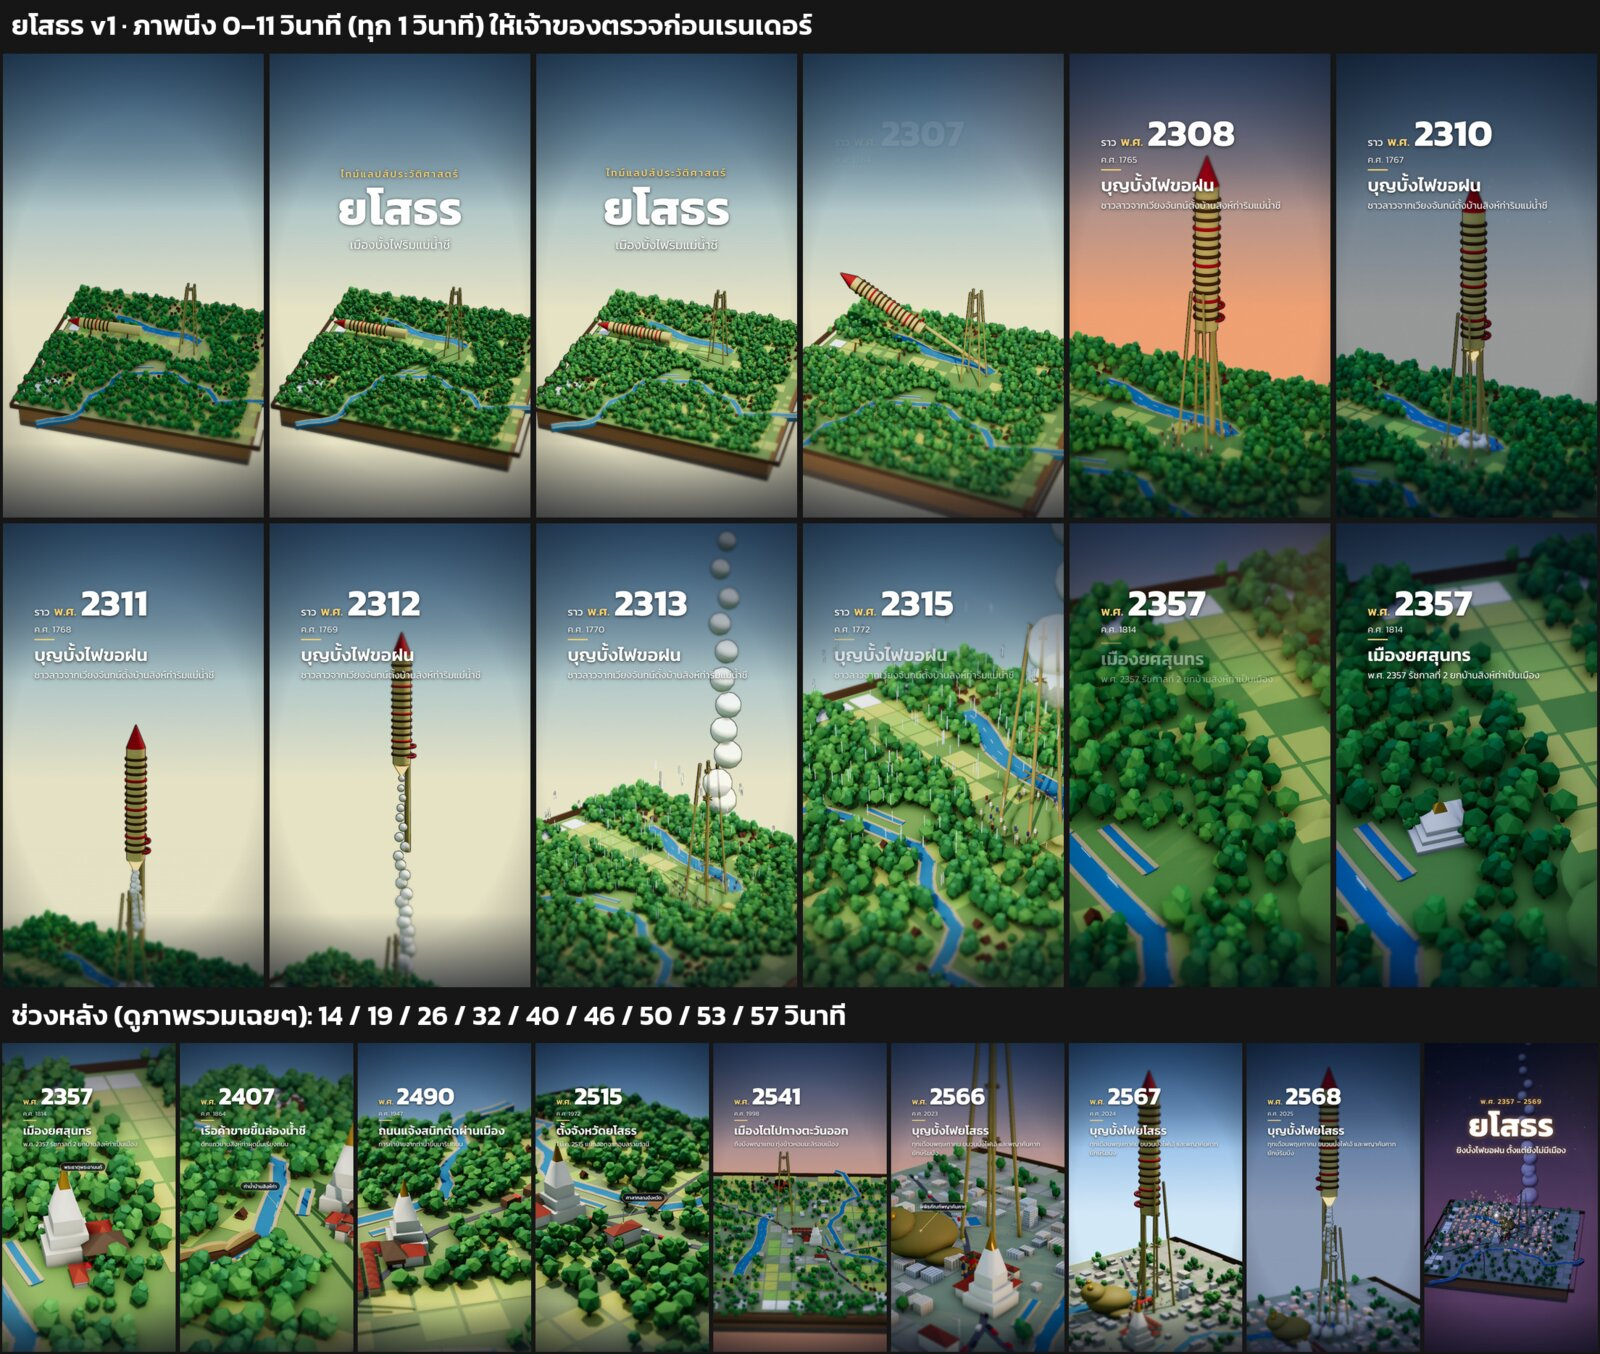
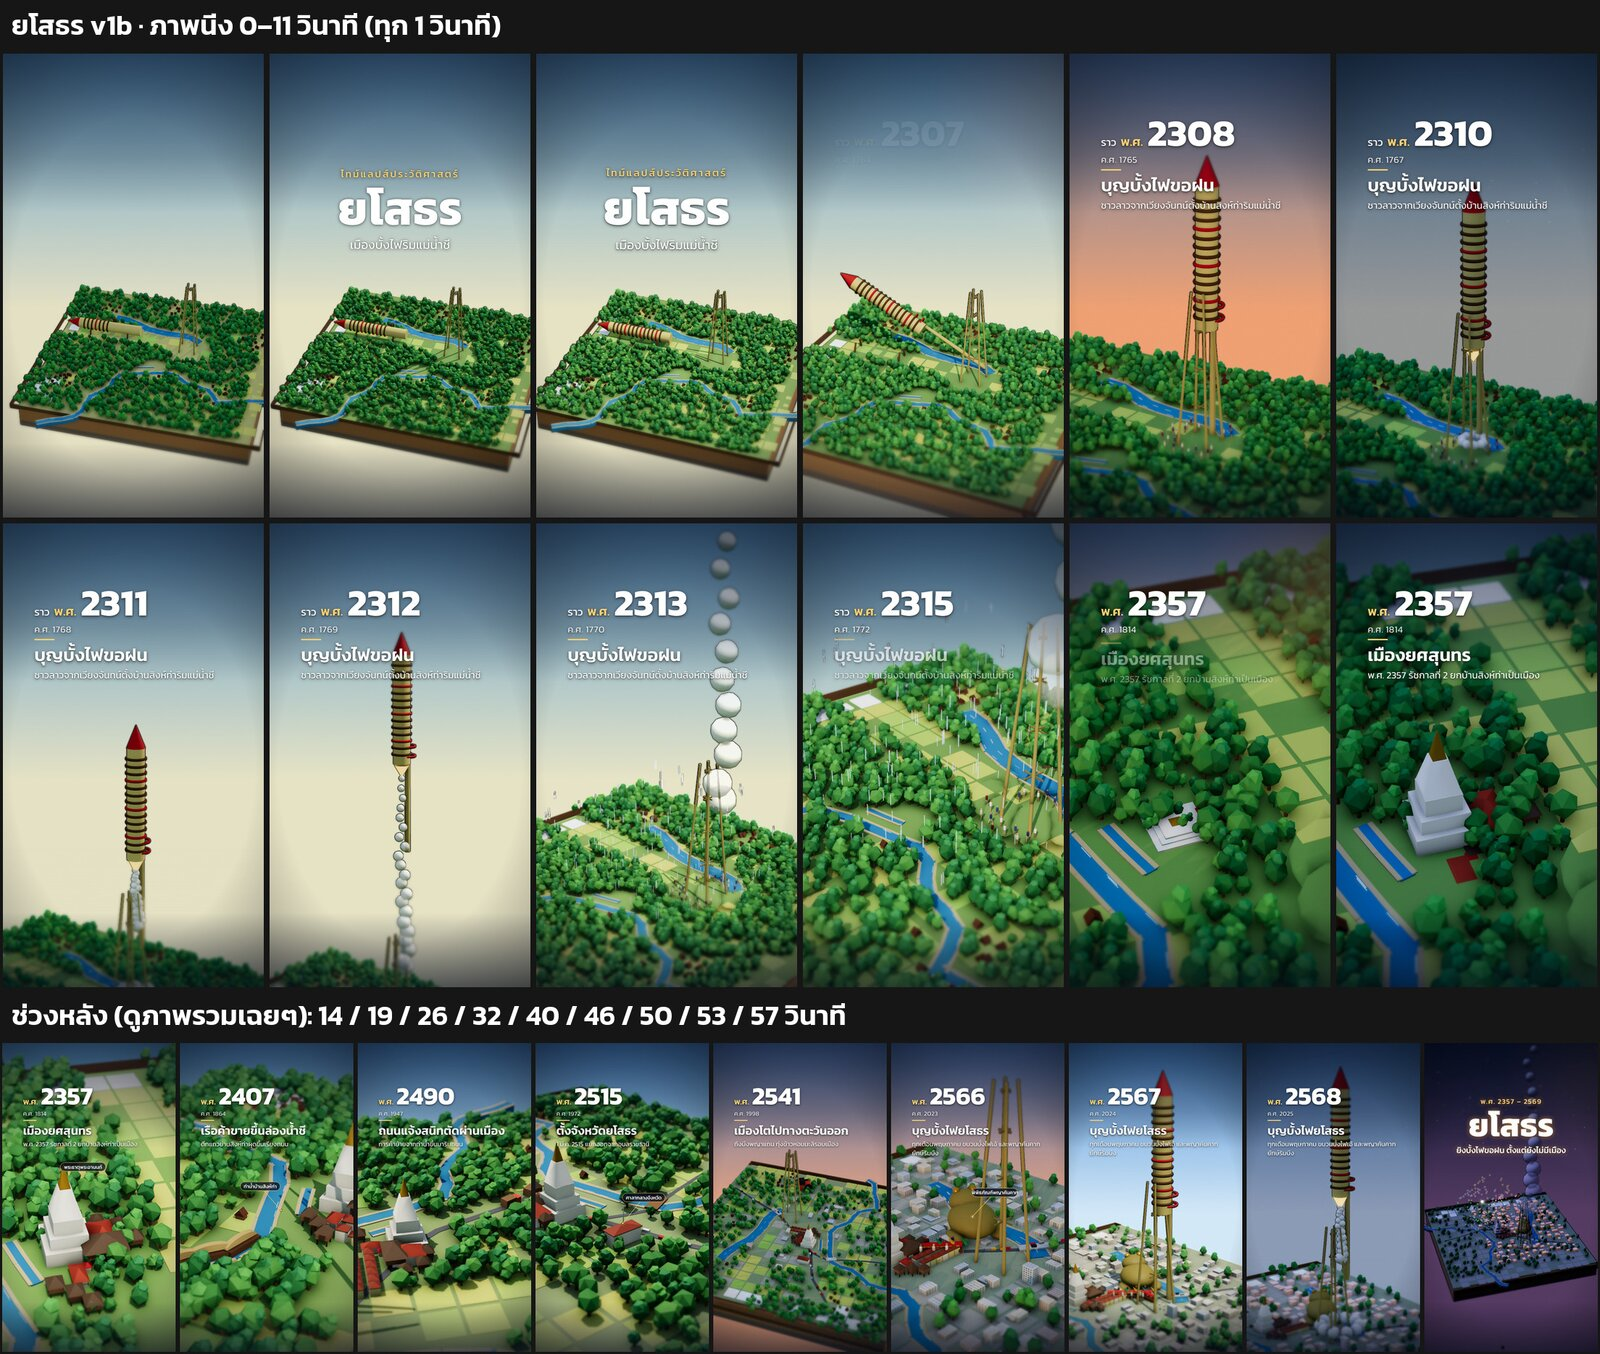
Yasothon v1b: fix what v1 flagged before the owner sees it (the town at 10-11 s, the stupa in front of the tower); the owner's rule written down
Owner, 10 Nov: asking whether a known flaw should be fixed is pointless; fix it first. The founding beat now clears the old
quarter and raises six stilt houses round the stupa, which reads by 11 s; the festival camera moves to the west-north-west so
the toad museum stands behind the tower and the stupa is out of the shot. The rule is in CLAUDE.md and claude-full.md.

diff --git a/src/cities/yasothon/timeline.ts b/src/cities/yasothon/timeline.ts
@@ -33,14 +33,14 @@ const PR_IN: Key = [29.8, HALL[0], 1.4, HALL[1], 60, 126, 28, 30];
 const PR_END: Key = [34.6, HALL[0], 1.4, HALL[1] + 1, 52, 148, 28, 30];
 // the grow shot: the whole town from the north, wide, swinging round
 const GR_IN: Key = [37.0, 4, 1, 4, 165, 166, 36, 30];
-const GR_END: Key = [44.0, 4, 1, 2, 215, 204, 36, 30];
-// the festival: the procession down Chaeng Sanit to the tower, the toad museum by the water; the cover's rocket back on
-// the tower and away (from the north-west, across the town to the water)
-const FE_IN: Key = [45.0, 6, 2, 3, 62, 218, 26, 30];
-const FE_MID: Key = [50.0, TOWER[0], 16, TOWER[1], 110, 232, 18, 30];
-const FE_END: Key = [54.0, TOWER[0], 26, TOWER[1], 130, 244, 14, 30];
+const GR_END: Key = [43.8, 4, 1, 2, 215, 262, 36, 30];
+// the festival: the procession down Chaeng Sanit to the tower, the toad museum behind it by the water; the cover's
+// rocket back on the tower and away (from the west-north-west: the stupa stays off to the side, not in front of the tower)
+const FE_IN: Key = [45.2, 7.5, 3, 5, 78, 312, 28, 30];
+const FE_MID: Key = [50.0, TOWER[0], 16, TOWER[1], 110, 318, 18, 30];
+const FE_END: Key = [54.0, TOWER[0], 26, TOWER[1], 130, 326, 14, 30];
 // the landing: the whole tile again at the cover's distance, now full of town, back round to the west
-const END: Key = [56.0, 4, 6, 4, 292, 276, 32, 30];
+const END: Key = [56.0, 4, 6, 4, 292, 340, 32, 30];
 
 export const STORY = buildStory({
   duration: 60,
@@ -57,7 +57,7 @@ export const STORY = buildStory({
     ...between(GR_END, FE_IN, 4, 0.1),
     ...between(FE_END, END, 5),
     END,
-    [60, 4, 6, 4, 302, 284, 32, 30],
+    [60, 4, 6, 4, 302, 346, 32, 30],
   ],
   beats: [
     {
@@ -91,7 +91,7 @@ export const STORY = buildStory({
       year: {hold: 1814},
       caption: {t0: 9.8, title: 'เมืองยศสุนทร', sub: 'พ.ศ. 2357 รัชกาลที่ 2 ยกบ้านสิงห์ท่าเป็นเมือง'},
       era: 'รัตนโกสินทร์',
-      callouts: [{label: 'พระธาตุพระอานนท์', dx: 120, dy: -170, p: [WAT_MAHATHAT[0], 7.6, WAT_MAHATHAT[1]], t0: 11.8, t1: 15.2}],
+      callouts: [{label: 'พระธาตุพระอานนท์', dx: 120, dy: -170, p: [WAT_MAHATHAT[0], 7.6, WAT_MAHATHAT[1]], t0: 11.0, t1: 15.2}],
       camera: [FO_IN, FO_END],
     },
     {

diff --git a/src/cities/yasothon/actors.ts b/src/cities/yasothon/actors.ts
@@ -83,8 +83,11 @@ export const crowdAt = (i: number): P => {
 export const rainK = (t: number) => smooth((t - 7.0) / 0.6) * (1 - smooth((t - 9.4) / 0.6));
 
 // ------------------------------------------------------------------ 2357: the stupa and the governor's hall
-export const stupaK = (t: number, Y: number) => (Y > 1815 ? 1 : smooth((beatK('found', t) - 0.08) / 0.45));
-export const hongK = (t: number, Y: number) => (Y > 1815 ? 1 : smooth((beatK('found', t) - 0.35) / 0.35));
+export const stupaK = (t: number, Y: number) => (Y > 1815 ? 1 : smooth((beatK('found', t) - 0.02) / 0.26));
+export const hongK = (t: number, Y: number) => (Y > 1815 ? 1 : smooth((beatK('found', t) - 0.2) / 0.3));
+/** the new town's first Lao houses on stilts round the temple and the hall, one after another through the found beat */
+export const FOUND_HOUSES: P[] = [[4.4, -2.0], [3.6, -3.8], [1.8, -4.6], [-2.9, 1.9], [-1.6, 3.0], [-0.6, 4.2]];
+export const foundHouseK = (j: number, t: number, Y: number) => (Y > 1815 ? 1 : smooth((beatK('found', t) - 0.12 - j * 0.08) / 0.18));
 
 // ------------------------------------------------------------------ the trade: boats up the Chi, the shophouse street
 // up the Chi from the tile's south edge to the landing (the drawn centreline, reversed)
@@ -128,13 +131,13 @@ export const tractorAt = (t: number) => {
 export const museumK = (t: number, Y: number) => (Y > 2021 ? 1 : smooth((beatK('grow', t) - 0.78) / 0.18));
 
 // ------------------------------------------------------------------ the payoff: the procession of decorated rockets
-const PROCESSION: P[] = [[0.9, -2.3], [3.0, -0.5], [5.6, 1.8], [8.3, 4.1], [9.6, 5.3], [9.6, 7.0]];
+const PROCESSION: P[] = [[3.0, -0.5], [5.6, 1.8], [8.3, 4.1], [9.6, 5.3], [9.6, 7.0]];
 export const FLOATS = 5;
 export const floatAt = (i: number, t: number) => {
   const k = beatK('festival', t);
   if (k < -0.02 || k > 0.62) return null;
   const L = lengthOf(PROCESSION);
-  const d = lerp(-2.4 * i + L * 0.1, L - 2.4 * i, smooth(k / 0.55));
+  const d = lerp(-1.8 * i + L * 0.25, L - 1.8 * i, smooth(k / 0.55));
   if (d < 0) return null;
   return along(PROCESSION, d);
 };

diff --git a/src/cities/yasothon/Landmarks.tsx b/src/cities/yasothon/Landmarks.tsx
@@ -16,6 +16,8 @@ import {
   floatAt,
   FLOATS,
   flyY,
+  FOUND_HOUSES,
+  foundHouseK,
   FUSE,
   hallK,
   hongK,
@@ -301,11 +303,25 @@ const Hong: React.FC<{k: number}> = ({k}) =>
       <HipRoof w={2.4} l={1.6} h={0.7} y={1.0} color="#5a4636" />
     </group>
   );
+/** a Lao house on stilts with a steep hip roof (drawn x1.4 so it reads in the found shot) */
+const StiltHouse: React.FC<{k: number; i: number}> = ({k, i}) =>
+  k < 0.02 ? null : (
+    <group scale={[1.4, 1.4 * k, 1.4]}>
+      {[-0.3, 0.3].map((x) => [-0.3, 0.3].map((z) => <Box key={`${x}${z}`} p={[x, 0.2, z]} s={[0.08, 0.4, 0.08]} c="#5b3b22" />))}
+      <Box p={[0, 0.6, 0]} s={[0.8, 0.4, 0.8]} c={i % 2 ? '#8a6040' : '#7a5236'} />
+      <HipRoof w={0.95} l={0.95} h={0.5} y={0.8} color="#5a4636" />
+    </group>
+  );
 const OldTown: React.FC<{t: number; Y: number}> = ({t, Y}) => {
   const s = stupaK(t, Y);
   const h = hongK(t, Y);
   return (
     <group>
+      {FOUND_HOUSES.map(([x, z], j) => (
+        <group key={j} position={[x, 0, z]}>
+          <StiltHouse k={foundHouseK(j, t, Y)} i={j} />
+        </group>
+      ))}
       {/* drawn at legend scale (x2.2), as the town's other landmarks, so it reads over the trees */}
       <group position={[WAT_MAHATHAT[0], 0, WAT_MAHATHAT[1]]} scale={2.2}>
         <Stupa k={s} />

diff --git a/src/cities/yasothon/index.ts b/src/cities/yasothon/index.ts
@@ -1,7 +1,7 @@
 import {GROUND} from '../../Scene';
 import type {CityConfig} from '../../engine/types';
 import {YasothonLandmarks} from './Landmarks';
-import {ACTORS, SHOPS} from './actors';
+import {ACTORS, FOUND_HOUSES, SHOPS} from './actors';
 import {
   CHAENG_SANIT, CHI, CHI_BRIDGE_AT, CHI_W, OUTFLOW_BRIDGE_AT, HALL, HONG, MUSEUM, OLD_QUARTER, PARK, PHAYA_THAEN, PHAYA_THAEN_W, PILLAR, POND, POND_W, ROCKET_AT,
   TILE, TOWER, WAT_MAHATHAT, WAT_SING_THA, WEST_ROAD,
@@ -99,7 +99,10 @@ export const YASOTHON: CityConfig = {
       [HALL[0], HALL[1], 2.6],
       [MUSEUM[0], MUSEUM[1], 2.4],
     ],
-    footprints: SHOPS.map((s, j) => ({fp: {rect: [s.x, s.z, 0.6, 0.55] as [number, number, number, number]}, from: 1815, label: `shophouse ${j}`})),
+    footprints: [
+      ...SHOPS.map((s, j) => ({fp: {rect: [s.x, s.z, 0.6, 0.55] as [number, number, number, number]}, from: 1815, label: `shophouse ${j}`})),
+      ...FOUND_HOUSES.map(([x, z], j) => ({fp: {rect: [x, z, 1.2, 1.2] as [number, number, number, number]}, from: 1814, label: `stilt house ${j}`})),
+    ],
     openGround: [{x0: PARK[0] - 4, x1: PARK[0] + 3, z0: PARK[1] - 4, z1: PARK[1] + 3}],
     urban: {from: 1975, rate: 0.5},
     urbanBox: {x0: -12, x1: 34, z0: -30, z1: 28},

diff --git a/docs/briefs/yasothon.md b/docs/briefs/yasothon.md
@@ -198,7 +198,7 @@ The city is in `src/cities/yasothon/`. It uses `places.ts` (100 m/unit, origin t
 beat table), `actors.ts`, `Landmarks.tsx`, `geo.ts` and `index.ts`. The score is `scripts/soundtrack_yasothon.py`: khaen,
 pong lang, klong yao, a sound for every ring, the launch's roar and the rain; it measures score +2.8 LU over the effects
 and -16.0 LUFS. `npm run check` passes with 0 errors and one warning: the old town is 2.0% of the tile on wide shots.
-Stills: `yasothon_v1_contact.jpg`.
+Stills: `yasothon_v1_contact.jpg` (v1b).
 
 How v1 is drawn:
 - **The rocket** lies north of the launch tower at the park's north-west corner (the payoff's launch field). Body 22 and
@@ -209,7 +209,15 @@ How v1 is drawn:
 - **The water:** the Phaya Thaen water is drawn as a wide channel along its spine. Two bridges: the west road over the Chi
   (OSM way 561113262, built 2501 in the model) and Chaeng Sanit over the water's outflow.
 
-Open (for the owner's still review):
-- Around 10-11 s the town is still mostly trees, and the stupa reads only from ~11 s.
-- The engine's day cycle puts the 4-5 s launch at dusk (orange sky).
-- In the festival shot the white stupa stands in front of the tower.
+Fixed before the owner's review (owner, 10 Nov: "fix what you flag"; v1b):
+- **The town at 10-11 s:** the old quarter's trees now go with the founding (forestCity 2356, its edge cleared in 2357). Phra
+  That Phra Anon rises by 11.2 s instead of 12.3 s, its callout from 11.0 s. Six Lao stilt houses go up one after another
+  round the temple and the hall through the found beat.
+- **The festival shot:** the camera is now from the west-north-west (az 312-326). The toad museum stands beside and behind
+  the tower, and the stupa is out of the line of sight. The procession starts on Chaeng Sanit in frame.
+
+Left as they are, with the reason:
+- **The dusk at 4-5 s** is the engine's day cycle (`lighting` in `src/lib.ts`), the same in every posted city. The launch
+  at sunset is kept.
+- **check_story warns that the old town covers 2.0% of the tile.** That is the true footprint at 100 m/unit. The early
+  beats are framed at 44-70 units, elevation 38-40 degrees (the launch looks up on purpose).

diff --git a/docs/claude-full.md b/docs/claude-full.md
@@ -21,6 +21,12 @@ Thai text uses Kanit. Everything is code-generated; the soundtrack is synthesize
   (ElevenLabs SFX, music or voice) to a province clip. `synth.sample()` (it reads `public/sfx/<name>`, which is
   not in the repo) exists for other series. Khon Kaen's ElevenLabs test set was tried and taken out (prompts in commit 6377944).
 
+- **Fix what you flag (owner, 10 Nov 2569).** Yasothon v1's stills went to the owner with an "ยังต้องปรับ" list
+  (the town still forest at 10-11 s, the stupa in front of the launch tower at 46 s) and a question whether to pass them.
+  The owner: asking whether a known flaw should be fixed is pointless. Any defect you can name, fix before you show the
+  work; the owner reviews what is left after your own fixes. If something truly cannot be fixed in the city (an engine-wide
+  look, a fact nobody can pin), say so once as a fact with the reason, not as a question.
+
 ## Workflow that works (do it in this order)
 1. Agree the visual style first (show 2–3 quick style frames) before building anything.
 2. Write the story beats (`buildStory`: seconds, years, captions, callouts, camera keys) in

diff --git a/CLAUDE.md b/CLAUDE.md
@@ -17,6 +17,7 @@ in Kanit; picture and sound all code (the score from `scripts/synth.py`).
 - The province series is code only: no generated audio (ElevenLabs etc.) in a province clip.
 - Reply to the owner in Thai; commits as stamp44101, no AI attribution; GitHub comments signed `[cloud]`.
 - Ask before merging; no full render until the owner passes the stills; shader look only.
+- **Fix what you flag (owner).** Never hand over a "still to fix" list or ask whether to fix it: fix it first.
 
 ## Workflow (in this order)
 1. 2–3 style frames, owner picks. 2. Brief + storyline worksheet (`docs/storyline.md` §5, §7 v2), then
